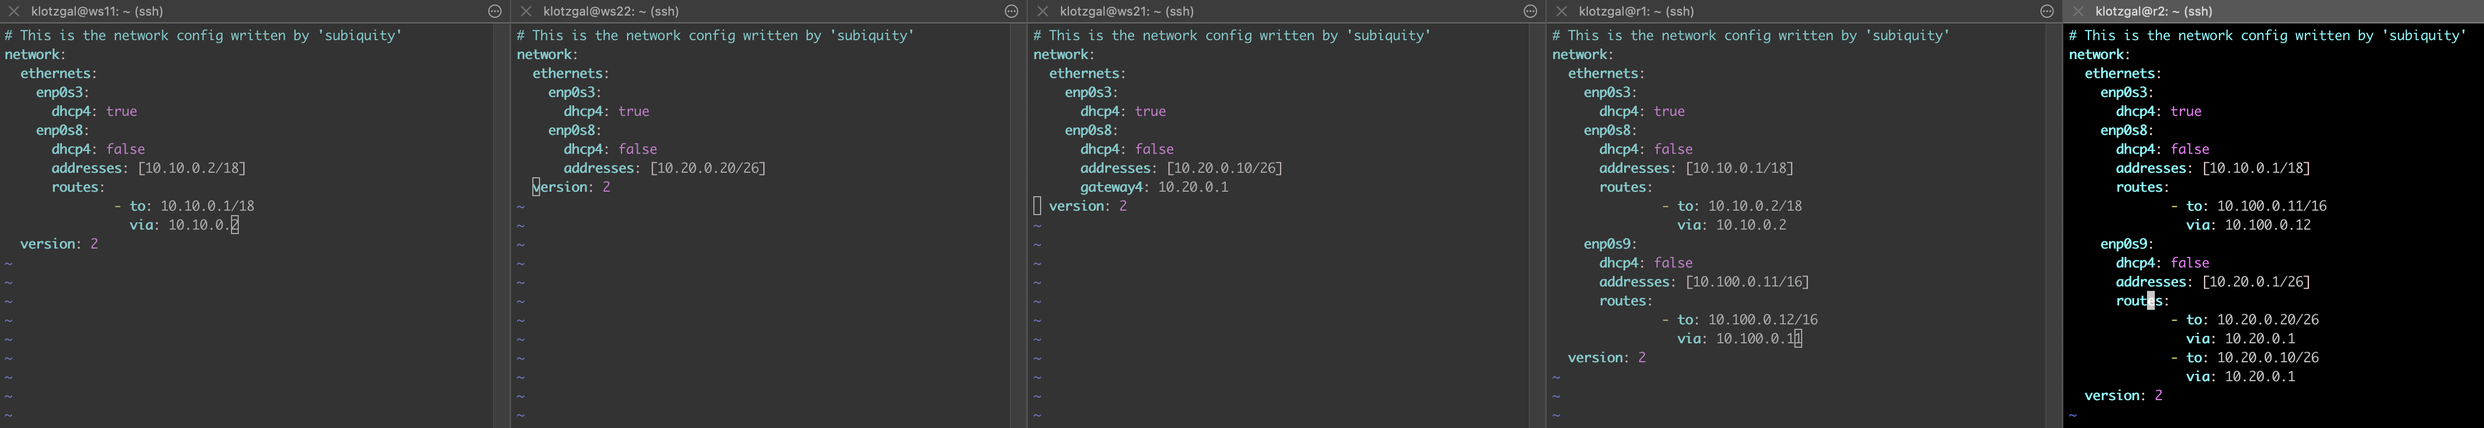
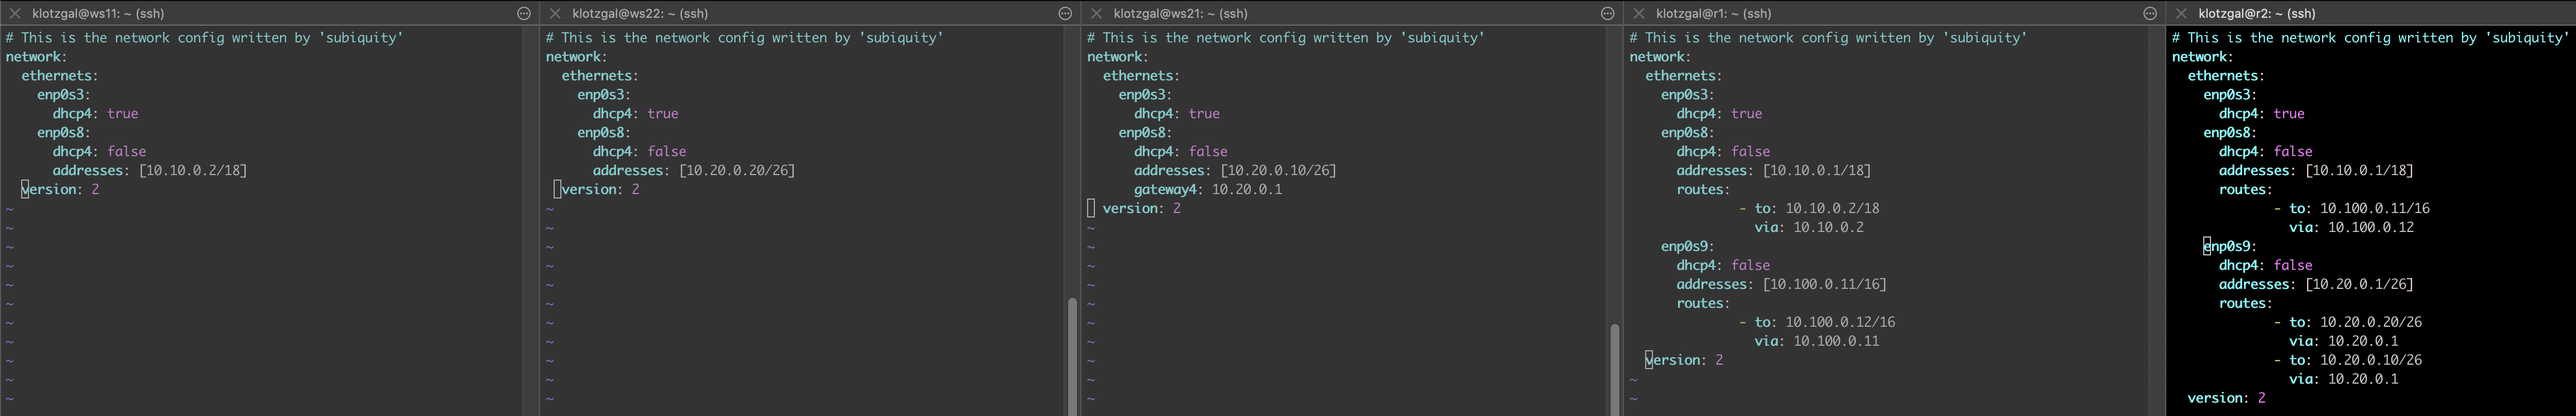
w

diff --git a/src/otchet.md b/src/otchet.md
@@ -203,10 +203,12 @@ iptables -X
 `sysctl -w net.ipv4.ip_forward=1`
 *При таком подходе переадресация не будет работать после перезагрузки системы.*
 - В отчёт поместить скрин с вызовом и выводом использованной команды.
+- ![ws1](screens/5.2.1.png)
 ##### Откройте файл */etc/sysctl.conf* и добавьте в него следующую строку:
 `net.ipv4.ip_forward = 1`
 *При использовании этого подхода, IP-переадресация включена на постоянной основе.*
 - В отчёт поместить скрин с содержанием изменённого файла */etc/sysctl.conf*.
+- ![ws1](screens/5.2.2.png)
 
 #### 5.3. Установка маршрута по-умолчанию
 Пример вывода команды `ip r` после добавления шлюза:
@@ -216,11 +218,14 @@ default via 10.10.0.1 dev eth0
 ```
 ##### Настроить маршрут по-умолчанию (шлюз) для рабочих станций. Для этого добавить `default` перед IP роутера в файле конфигураций
 - В отчёт поместить скрин с содержанием файла *etc/netplan/00-installer-config.yaml*.
+- ![ws1](screens/5.3.1.png)
 ##### Вызвать `ip r` и показать, что добавился маршрут в таблицу маршрутизации
 - В отчёт поместить скрин с вызовом и выводом использованной команды.
+- ![ws1](screens/5.3.2.png)
 ##### Пропинговать с ws11 роутер r2 и показать на r2, что пинг доходит. Для этого использовать команду:
 `tcpdump -tn -i eth1`
 - В отчёт поместить скрин с вызовом и выводом использованных команд.
+- ![ws1](screens/5.3.3.png)
 
 #### 5.4. Добавление статических маршрутов
 ##### Добавить в роутеры r1 и r2 статические маршруты в файле конфигураций. Пример для r1 маршрута в сетку 10.20.0.0/26:
@@ -230,6 +235,7 @@ default via 10.10.0.1 dev eth0
   via: 10.100.0.12
 ```
 - В отчёт поместить скрины с содержанием изменённого файла *etc/netplan/00-installer-config.yaml* для каждого роутера.
+- ![ws1](screens/5.4.1.png)
 ##### Вызвать `ip r` и показать таблицы с маршрутами на обоих роутерах. Пример таблицы на r1:
 ```
 10.100.0.0/16 dev eth1 proto kernel scope link src 10.100.0.11
@@ -237,10 +243,13 @@ default via 10.10.0.1 dev eth0
 10.10.0.0/18 dev eth0 proto kernel scope link src 10.10.0.1
 ```
 - В отчёт поместить скрин с вызовом и выводом использованной команды.
+- ![ws1](screens/5.4.2.png)
 ##### Запустить команды на ws11:
 `ip r list 10.10.0.0/[маска сети]` и `ip r list 0.0.0.0/0`
 - В отчёт поместить скрин с вызовом и выводом использованных команд.
+- ![ws1](screens/5.4.3.png)
 - В отчёте объяснить, почему для адреса 10.10.0.0/\[маска сети\] был выбран маршрут, отличный от 0.0.0.0/0, хотя он попадает под маршрут по-умолчанию.
+- Так как приоритетно выбирается маршрут с более длинной маской
 
 #### 5.5. Построение списка маршрутизаторов
 Пример вывода утилиты **traceroute** после добавления шлюза:
@@ -253,21 +262,24 @@ default via 10.10.0.1 dev eth0
 `tcpdump -tnv -i eth0`
 ##### При помощи утилиты **traceroute** построить список маршрутизаторов на пути от ws11 до ws21
 - В отчёт поместить скрины с вызовом и выводом использованных команд (tcpdump и traceroute).
-- В отчёте, опираясь на вывод, полученный из дампа на r1, объяснить принцип работы построения пути при помощи **traceroute**.
+- ![ws1](screens/5.5.1.png)
+- ![ws1](screens/5.5.2.png)
 
+- По протоколу UDP Traceroute отправляет последовательность IP-пакетов. Всего таких пакетов по умолчанию может быть 3.
+Первый пакет имеет время жизни (TTL (Time To Live) или лимит переходов), равное 1, второй пакет имеет TTL=2 и так далее.
+Каждый раз, когда пакет передается новому маршрутизатору, TTL уменьшается на 1.
 #### 5.6. Использование протокола **ICMP** при маршрутизации
 ##### Запустить на r1 перехват сетевого трафика, проходящего через eth0 с помощью команды:
 `tcpdump -n -i eth0 icmp`
 ##### Пропинговать с ws11 несуществующий IP (например, *10.30.0.111*) с помощью команды:
 `ping -c 1 10.30.0.111`
 - В отчёт поместить скрин с вызовом и выводом использованных команд.
+- ![ws1](screens/5.6.png)
 
 ##### Сохранить дампы образов виртуальных машин
 **p.s. Ни в коем случае не сохранять дампы в гит!**
 
 ## Part 6. Динамическая настройка IP с помощью **DHCP**
-
-`-` Следующим нашим шагом будет более подробное знакомство со службой **DHCP**, которую ты уже знаешь.
 
 **== Задание ==**
 
@@ -287,13 +299,19 @@ subnet 10.20.0.0 netmask 255.255.255.192
 ```
 ##### 2) в файле *resolv.conf* прописать `nameserver 8.8.8.8.`
 - В отчёт поместить скрины с содержанием изменённых файлов.
+- ![ws1](screens/6.1.png)
+- ![ws1](screens/6.2.png)
 ##### Перезагрузить службу **DHCP** командой `systemctl restart isc-dhcp-server`. Машину ws21 перезагрузить при помощи `reboot` и через `ip a` показать, что она получила адрес. Также пропинговать ws22 с ws21.
 - В отчёт поместить скрины с вызовом и выводом использованных команд.
-
+- ![ws1](screens/6.3.png)
 ##### Указать MAC адрес у ws11, для этого в *etc/netplan/00-installer-config.yaml* надо добавить строки: `macaddress: 10:10:10:10:10:BA`, `dhcp4: true`
 - В отчёт поместить скрин с содержанием изменённого файла *etc/netplan/00-installer-config.yaml*.
+- ![ws1](screens/6.4.png)
 ##### Для r1 настроить аналогично r2, но сделать выдачу адресов с жесткой привязкой к MAC-адресу (ws11). Провести аналогичные тесты
 - В отчёте этот пункт описать аналогично настройке для r2.
+- ![ws1](screens/6.5.png)
+- ![ws1](screens/6.6.png)
+- ![ws1](screens/6.7.png)
 ##### Запросить с ws21 обновление ip адреса
 - В отчёте поместить скрины ip до и после обновления.
 - В отчёте описать, какими опциями **DHCP** сервера пользовались в данном пункте.
